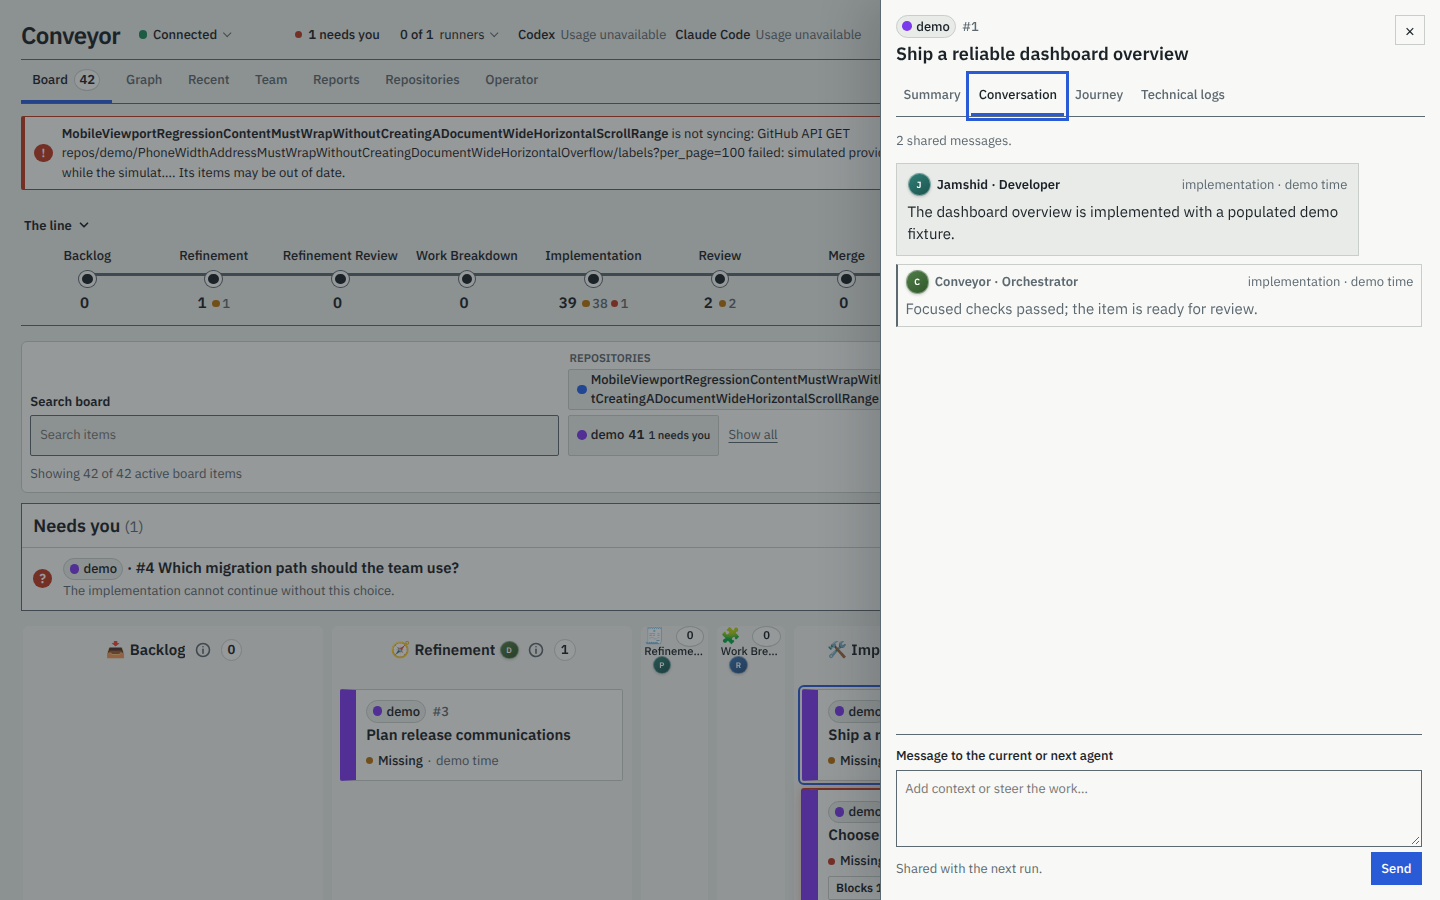
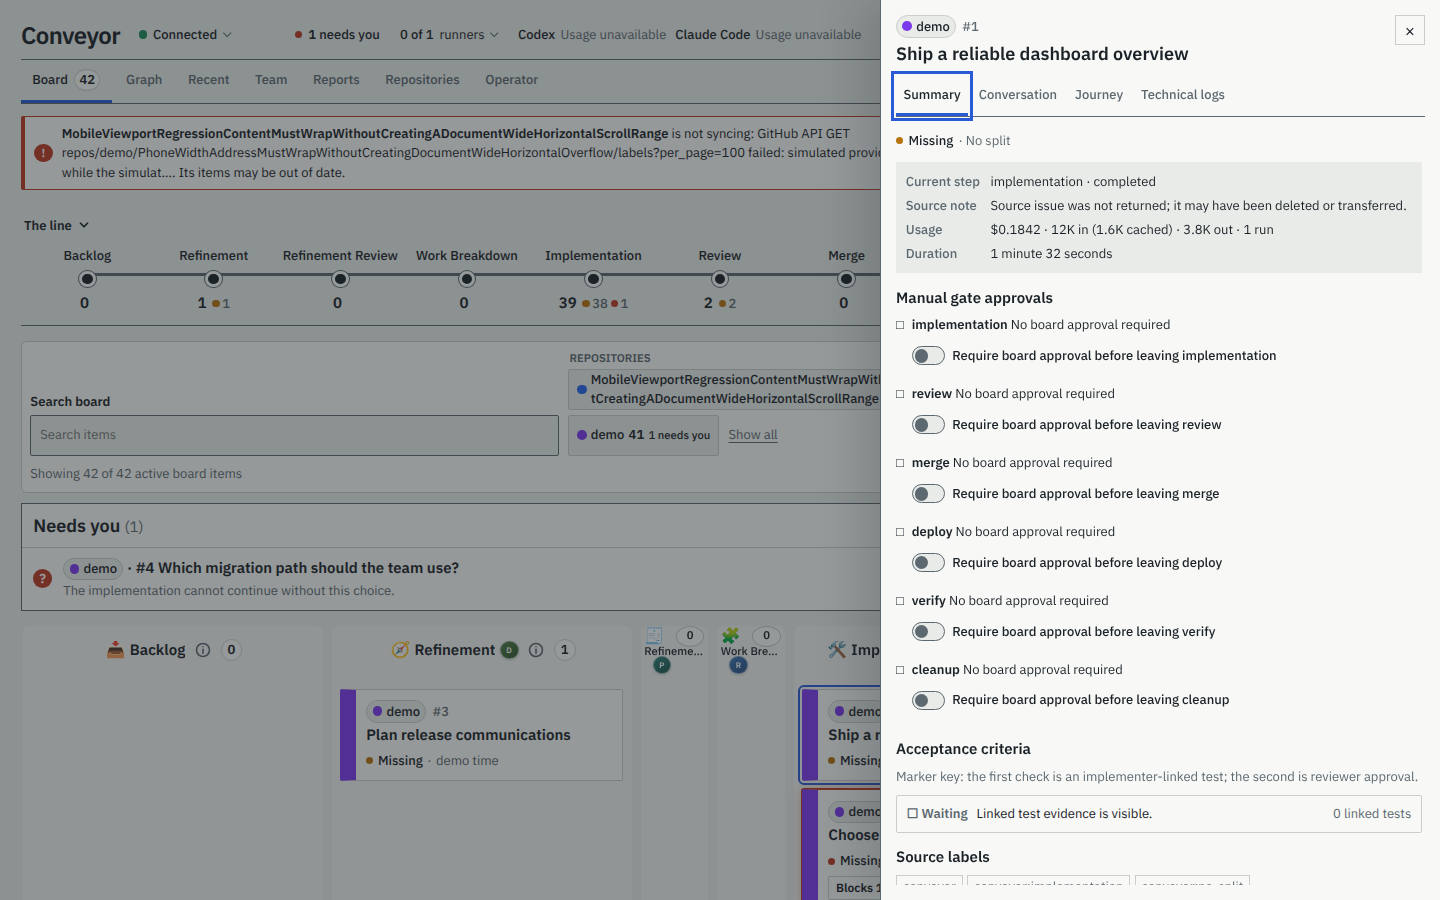
Show criterion evidence markers (#351)

diff --git a/src/web/styles.ts b/src/web/styles.ts
@@ -77,6 +77,8 @@ html{scrollbar-color:var(--steel) var(--concrete)}::selection{background:var(--s
 .repository-filter{max-width:100%}.repository-filter label{min-width:0;overflow-wrap:anywhere;white-space:normal}.board [data-filter-card][hidden]{display:none!important}@media(max-width:760px){.board-filter-choices .repository-filter{width:100%}.board-filter-choices .repository-filter label{flex:1 1 auto}}
 .recent-activity{min-width:0;max-width:76rem}.recent-header{display:flex;align-items:baseline;justify-content:space-between;gap:1rem;margin-bottom:1.25rem}.recent-header h2{margin:0}.recent-header p{margin:0;color:var(--steel)}.recent-filters{display:grid;grid-template-columns:minmax(0,1fr) minmax(0,1fr) auto;gap:1rem;align-items:end;margin-bottom:1.5rem;padding:1rem;border:1px solid var(--line);background:var(--panel)}.recent-filters fieldset{min-width:0;margin:0;padding:0;border:0}.recent-filters legend{margin-bottom:.45rem;font-size:var(--text-sm);font-weight:600}.recent-filter-options{display:flex;flex-wrap:wrap;gap:.4rem}.recent-filter-options label{display:inline-flex;align-items:center;gap:.3rem;min-height:2rem;padding:.2rem .5rem;border:1px solid var(--line);border-radius:999px;font-size:var(--text-sm);overflow-wrap:anywhere}.recent-filter-options input{inline-size:1rem;block-size:1rem;margin:0;accent-color:var(--signal)}.recent-filter-submit,.recent-load-more{min-height:2.25rem;padding:.45rem .8rem;border:1px solid var(--signal);border-radius:2px;background:var(--signal);color:var(--panel);font:inherit;font-weight:600;text-decoration:none}.recent-type{--recent-type:var(--steel);border-color:color-mix(in srgb,var(--recent-type) 55%,var(--line))!important;color:var(--recent-type)}.recent-type--done{--recent-type:var(--run)}.recent-type--stopped{--recent-type:var(--stop)}.recent-type--sent-back{--recent-type:var(--wait)}.recent-type--moved-forward{--recent-type:var(--signal)}.recent-list{display:grid;gap:.65rem;min-width:0;margin:0;padding:0;list-style:none}.recent-event{display:grid;grid-template-columns:7.5rem max-content minmax(13rem,1fr);gap:.45rem .8rem;align-items:center;min-width:0;padding:1rem;border:1px solid var(--line);background:var(--panel)}.recent-event time{color:var(--steel);font-size:var(--text-sm)}.recent-event>.recent-type{width:max-content;max-width:100%;padding:.18rem .45rem;border:1px solid;border-radius:999px;font-size:var(--text-sm);font-weight:600}.recent-item{display:flex;align-items:center;gap:.5rem;min-width:0}.recent-item>a{min-width:0;color:var(--ink);font-weight:600;overflow-wrap:anywhere}.recent-move,.recent-no-reason{grid-column:2/-1;margin:0;color:var(--steel);font-size:var(--text-sm)}.recent-move{display:flex;flex-wrap:wrap;gap:.35rem;align-items:center}.recent-reason{display:block;grid-column:2/-1;min-width:0;color:var(--steel);font-size:var(--text-sm)}.recent-reason summary{display:grid;grid-template-columns:auto minmax(0,1fr);gap:.5rem;cursor:pointer}.recent-reason summary span:last-child{overflow:hidden;text-overflow:ellipsis;white-space:nowrap}.recent-reason[open] summary span:last-child{display:none}.recent-reason p{margin:.45rem 0 0;overflow-wrap:anywhere}.recent-empty{margin:0;padding:1rem;border:1px dashed var(--line);color:var(--steel)}.recent-load-more{display:inline-flex;align-items:center;justify-content:center;margin-top:1rem}@media(max-width:760px){.recent-header{display:block}.recent-header p{margin-top:.35rem}.recent-filters{grid-template-columns:1fr;padding:.8rem}.recent-filter-options label,.recent-filter-submit,.recent-load-more{min-height:2.75rem}.recent-event{grid-template-columns:minmax(0,1fr);gap:.55rem;padding:.8rem}.recent-event>.recent-type{grid-row:1;justify-self:start}.recent-event time{grid-row:1;justify-self:end}.recent-item,.recent-move,.recent-no-reason,.recent-reason{grid-column:1}.recent-item{align-items:flex-start}.recent-item .repository-badge{flex:none}.recent-reason summary{min-height:2.75rem;align-items:center}}
 .criterion-list{gap:.45rem}.criterion-evidence{min-width:0;border:1px solid var(--line);border-radius:2px;background:var(--panel)}.criterion-summary{display:grid;grid-template-columns:auto minmax(0,1fr) auto;gap:.35rem .6rem;align-items:start;padding:.55rem .65rem;cursor:pointer}.criterion-summary::marker{color:var(--steel)}.criterion-state{font-size:var(--text-sm);font-weight:600;white-space:nowrap}.criterion-text{min-width:0;overflow-wrap:anywhere}.criterion-test-count{color:var(--steel);font-size:var(--text-sm);white-space:nowrap}.criterion-empty{margin:.1rem .65rem .65rem;color:var(--steel);font-size:var(--text-sm)}.criterion-tests{display:grid;gap:.45rem;margin:.1rem .65rem .65rem;padding:0;list-style:none}.criterion-test{display:grid;grid-template-columns:minmax(0,1fr);gap:.15rem;min-width:0;padding-top:.45rem;border-top:1px solid var(--line);font-size:var(--text-sm)}.criterion-test strong,.criterion-test-location,.criterion-test-description{min-width:0;overflow-wrap:anywhere}.criterion-test-location{color:var(--signal)}.criterion-test-description{color:var(--steel)}@media(max-width:760px){.criterion-summary{grid-template-columns:auto minmax(0,1fr);padding:.65rem}.criterion-test-count{grid-column:2;font-size:.8rem}.criterion-tests{margin-right:.65rem;margin-left:.65rem}.criterion-empty{margin-right:.65rem;margin-left:.65rem}}
+/* Acceptance criteria carry their own evidence marker, rather than the generic list box. */
+.criterion-list>li{padding-left:0}.criterion-list>li::before{content:none}.criterion-state--waiting,.criterion-state--manual{color:var(--steel)}.criterion-state--tests-linked{color:var(--wait-text)}.criterion-state--approved{color:var(--run-text)}.criterion-evidence-summary{display:grid;justify-items:end;gap:.08rem;min-width:0}.criterion-test-count,.criterion-no-tests{color:var(--steel);font-size:var(--text-sm);white-space:nowrap}.criterion-no-tests{color:var(--wait-text);font-weight:500}.criterion-guidance{margin:.1rem 0 .55rem;color:var(--steel);font-size:var(--text-sm)}@media(max-width:760px){.criterion-evidence-summary{grid-column:2;justify-items:start}.criterion-test-count,.criterion-no-tests{font-size:.8rem;white-space:normal}}
 `;
 
 export const stickyNavigationCss = `

diff --git a/tests/web/render.test.ts b/tests/web/render.test.ts
@@ -466,8 +466,8 @@ describe("renderDashboard", () => {
   test("renders visible approved and unapproved criterion states", () => {
     const html = renderDashboard({ ...dashboard, selectedIssue: parent });
 
-    expect(html).toContain("☐ Waiting");
-    expect(html).toContain("☑ Approved");
+    expect(html).toContain('aria-hidden="true">☐</span> Waiting');
+    expect(html).toContain('aria-hidden="true">☑☑</span> Approved');
     expect(html).toContain("Keyboard usable");
   });
 
@@ -1495,7 +1495,7 @@ describe("renderDashboard", () => {
   });
 });
 
-test("renders expandable criterion evidence as text with SHA-correct source links", () => {
+test("renders one accessible marker for each criterion evidence state", () => {
   const html = renderIssueDetails({
     ...parent,
     acceptanceCriteria: [
@@ -1507,12 +1507,23 @@ test("renders expandable criterion evidence as text with SHA-correct source link
         ],
       },
       { id: "AC-2", text: "No evidence", approved: false, manual: false, tests: [] },
-      { id: "AC-3", text: "Production validation", approved: false, manual: true, tests: [] },
+      {
+        id: "AC-3", text: "Production validation", approved: true, manual: true,
+        tests: [{ name: "manual prerequisite", file: "tests/manual.test.ts", line: null, description: null, sourceUrl: null }],
+      },
+      { id: "AC-4", text: "Approved without recorded evidence", approved: true, manual: false, tests: [] },
     ],
   });
 
   expect(html).toContain('<details class="criterion-evidence">');
-  expect(html).toContain("☑ Approved");
+  expect(html).toContain('class="criterion-state criterion-state--approved" aria-label="Approved"');
+  expect(html).toContain('aria-hidden="true">☑☑</span> Approved');
+  expect(html).toContain('class="criterion-state criterion-state--waiting" aria-label="Waiting"');
+  expect(html).toContain('aria-hidden="true">☐</span> Waiting');
+  expect(html).toContain('class="criterion-state criterion-state--manual" aria-label="Manual"');
+  expect(html).toContain('aria-hidden="true">◌</span> Manual');
+  expect(html).toContain("Marker key: the first check is an implementer-linked test; the second is reviewer approval.");
+  expect(html.match(/class="criterion-state /g)?.length).toBe(4);
   expect(html).toContain("2 linked tests");
   expect(html).toContain('href="https://example.com/owner/repo/blob/verified-head/tests/web/render.test.ts#L47"');
   expect(html).toContain('href="https://example.com/owner/repo/blob/recorded-head/tests/web/no-line.test.ts"');
@@ -1521,8 +1532,29 @@ test("renders expandable criterion evidence as text with SHA-correct source link
   expect(html).toContain("Escapes &lt;stored> text");
   expect(html).toContain("&lt;criterion>");
   expect(html).toContain("renders &lt;safely>");
-  expect(html).toContain("no tests linked");
+  expect(html).toContain("No test linked");
   expect(html).toContain("manual");
   expect(html).not.toContain("<criterion>");
   expect(html).not.toContain("<stored>");
+});
+
+test("shows tests linked when evidence exists without current-head approval", () => {
+  const html = renderIssueDetails({
+    ...parent,
+    acceptanceCriteria: [{
+      id: "AC-1", text: "Evidence is recorded", approved: false, manual: false,
+      tests: [{ name: "records evidence", file: "tests/web/render.test.ts", line: 1, description: null, sourceUrl: null }],
+    }],
+  });
+
+  expect(html).toContain('class="criterion-state criterion-state--tests-linked" aria-label="Tests linked"');
+  expect(html).toContain('aria-hidden="true">☑</span> Tests linked');
+  expect(html).not.toContain('aria-hidden="true">☑☑</span> Approved');
+});
+
+test("styles criterion states with theme variables and removes the generic list marker", () => {
+  expect(dashboardCss).toContain(".criterion-list>li::before{content:none}");
+  expect(dashboardCss).toContain(".criterion-state--waiting,.criterion-state--manual{color:var(--steel)}");
+  expect(dashboardCss).toContain(".criterion-state--tests-linked{color:var(--wait-text)}");
+  expect(dashboardCss).toContain(".criterion-state--approved{color:var(--run-text)}");
 });

diff --git a/src/web/render.tsx b/src/web/render.tsx
@@ -15,6 +15,7 @@ import type {
   GraphNodeViewModel,
   GraphRelationshipViewModel,
   IssueCardViewModel,
+  IssueCriterionViewModel,
   IssueRelationViewModel,
   RecentActivityType,
   RepositoryDashboardSummary,
@@ -31,6 +32,13 @@ function safeUrl(value: string | null): string | null {
   } catch {
     return null;
   }
+}
+
+function criterionState(criterion: IssueCriterionViewModel): { label: string; mark: string; className: string } {
+  if (criterion.manual) return { label: "Manual", mark: "◌", className: "criterion-state--manual" };
+  if (criterion.approved) return { label: "Approved", mark: "☑☑", className: "criterion-state--approved" };
+  if (criterion.tests.length > 0) return { label: "Tests linked", mark: "☑", className: "criterion-state--tests-linked" };
+  return { label: "Waiting", mark: "☐", className: "criterion-state--waiting" };
 }
 
 function issueHref(repository: string, number: number, tab?: "conversation" | "journey" | "logs"): string {
@@ -286,16 +294,23 @@ function DetailsDialog({ issue, id, selected = false, canManage = false }: { iss
         <TodoChecklist issue={issue} />
         <section class="criteria" aria-label="Acceptance criteria" data-criterion-evidence>
           <h3>Acceptance criteria</h3>
+          <p class="criterion-guidance">Marker key: the first check is an implementer-linked test; the second is reviewer approval.</p>
           {issue.acceptanceCriteria.length > 0
-            ? <ul class="criteria-list criterion-list">{issue.acceptanceCriteria.map((criterion) => (
+            ? <ul class="criteria-list criterion-list">{issue.acceptanceCriteria.map((criterion) => {
+              const state = criterionState(criterion);
+              const approvedWithoutTests = !criterion.manual && criterion.approved && criterion.tests.length === 0;
+              return (
               <li key={criterion.id}>
                 <details class="criterion-evidence">
                   <summary class="criterion-summary">
-                    <span class="criterion-state" aria-label={criterion.manual ? "Manual" : criterion.approved ? "Approved" : "Waiting"}>
-                      {criterion.manual ? "◌ Manual" : criterion.approved ? "☑ Approved" : "☐ Waiting"}
+                    <span class={`criterion-state ${state.className}`} aria-label={state.label}>
+                      <span aria-hidden="true">{state.mark}</span> {state.label}
                     </span>
                     <span class="criterion-text">{criterion.text}</span>
-                    <span class="criterion-test-count">{criterion.tests.length} linked test{criterion.tests.length === 1 ? "" : "s"}</span>
+                    <span class="criterion-evidence-summary">
+                      <span class="criterion-test-count">{criterion.tests.length} linked test{criterion.tests.length === 1 ? "" : "s"}</span>
+                      {approvedWithoutTests && <span class="criterion-no-tests">No test linked</span>}
+                    </span>
                   </summary>
                   {criterion.manual
                     ? <p class="criterion-empty">manual</p>
@@ -312,7 +327,8 @@ function DetailsDialog({ issue, id, selected = false, canManage = false }: { iss
                     })}</ul>}
                 </details>
               </li>
-            ))}</ul>
+              );
+            })}</ul>
             : <p class="details-empty">No acceptance criteria recorded.</p>}
         </section>
         {(issue.issueType || issue.issueFields.length > 0) && (

diff --git a/scripts/regenerate-screenshots.ts b/scripts/regenerate-screenshots.ts
@@ -22,6 +22,13 @@ const DEMO_PASSWORD = "demo-password-12chars";
 const DEMO_TIMEOUT = 30_000;
 const DEMO_TIME = "2026-09-15T12:00:00.000Z";
 const DEMO_FINISHED_TIME = "2026-09-15T12:01:32.000Z";
+const DEMO_CRITERIA_BODY = [
+  "Deterministic demo item used only to regenerate documentation screenshots.",
+  "",
+  "## Acceptance Criteria",
+  "",
+  "- [ ] Linked test evidence is visible. <!-- conveyor:criterion:AC-1 -->",
+].join("\n");
 const OUTPUT_DIRECTORY = path.join("docs", "screenshots");
 const PHONE_OVERFLOW_REPOSITORY = "MobileViewportRegressionContentMustWrapWithoutCreatingADocumentWideHorizontalScrollRange";
[1 lines of base64/hex data omitted]
@@ -37,7 +44,7 @@ const DEMO_SOURCE_ISSUES = [
     number: 1,
     html_url: "https://github.invalid/demo/dashboard-demo/issues/1",
     title: "Ship a reliable dashboard overview",
-    body: "Deterministic demo item used only to regenerate documentation screenshots.",
+    body: DEMO_CRITERIA_BODY,
     state: "open",
     state_reason: null,
     labels: ["conveyor", "conveyor:implementation", "conveyor:no-split"],
@@ -269,7 +276,7 @@ function issue(number: number, title: string, stage: string): IssueProjection {
     sourceNumber: number,
     sourceUrl: `https://github.invalid/demo/dashboard-demo/issues/${number}`,
     title,
-    body: "Deterministic demo item used only to regenerate documentation screenshots.",
+    body: number === 1 ? DEMO_CRITERIA_BODY : "Deterministic demo item used only to regenerate documentation screenshots.",
     sourceState: "open",
     sourceStateReason: null,
     labels: ["conveyor", `conveyor:${stage}`],
@@ -1056,9 +1063,10 @@ async function main(): Promise<void> {
       "16.2K",
       "Runs",
     ]);
-    await capture(page, baseUrl, "item", "/issues/demo/1/conversation", [
+    await capture(page, baseUrl, "item", "/issues/demo/1", [
       "Ship a reliable dashboard overview",
-      "The dashboard overview is implemented",
+      "Acceptance criteria",
+      "Waiting",
     ]);
     await verifyPhoneLayouts(page, baseUrl);
 

diff --git a/tests/web/refresh-position.test.ts b/tests/web/refresh-position.test.ts
@@ -735,8 +735,12 @@ describe("dashboard live refresh position", () => {
       await page.locator('article.issue[data-issue-id="target"] .card-open').click();
       await request;
       await page.waitForFunction(() => document.querySelector('dialog.issue-details[open]'));
-      expect(await page.locator("[data-criterion-evidence]").textContent()).toContain("no tests linked");
-      expect(await page.locator("[data-criterion-evidence]").textContent()).toContain("manual");
+      const evidence = page.locator("[data-criterion-evidence]");
+      expect(await evidence.textContent()).toContain("no tests linked");
+      expect(await evidence.textContent()).toContain("manual");
+      expect(await evidence.getByLabel("Waiting").count()).toBe(1);
+      expect(await evidence.getByLabel("Manual").count()).toBe(1);
+      expect(await evidence.locator(".criterion-list > li").evaluateAll((items) => items.every((item) => getComputedStyle(item, "::before").content === "none"))).toBe(true);
 
       const refreshed = issue("target", 20, "Target item");
       refreshed.acceptanceCriteria = [
@@ -754,8 +758,9 @@ describe("dashboard live refresh position", () => {
       currentDashboard = dashboard(revision, [refreshed]);
       await page.waitForFunction(() => document.querySelector("[data-criterion-evidence]")?.textContent?.includes("refreshes evidence"));
 
-      const evidence = page.locator("[data-criterion-evidence]");
-      expect(await evidence.textContent()).toContain("☑ Approved");
+      expect(await evidence.textContent()).toContain("☑☑ Approved");
+      expect(await evidence.getByLabel("Approved").count()).toBe(1);
+      expect(await evidence.getByLabel("Manual").count()).toBe(1);
       expect(await evidence.locator("a.criterion-test-location").getAttribute("href")).toContain("/blob/verified-head/tests/web/refresh-position.test.ts#L579");
       expect(await page.evaluate(() => document.documentElement.scrollWidth <= window.innerWidth)).toBe(true);
     } finally {

diff --git a/docs/dashboard.md b/docs/dashboard.md
@@ -12,7 +12,7 @@ The screenshots below are generated by `bun run docs:screenshots` from isolated 
 
 The board shows backlog, configured stages, completed work, active runner capacity, dependency/child relationships, warnings, questions, and per-stage usage (tokens in and out, plus the dollar amount when the harness reports one; subscription harnesses do not). Issue dialogs separate four concerns:
 
-- **Summary** — current state, relationships, criteria, labels, token usage (and cost when known), and duration. Criteria can be expanded to show their current approval state and linked test evidence, with source links pinned to the recorded revision.
+- **Summary** — current state, relationships, criteria, labels, token usage (and cost when known), and duration. Each criterion has one labelled marker: **Waiting** has no evidence, **Tests linked** has the implementer's linked test, **Approved** adds the reviewer's approval, and **Manual** remains manual. A note calls out an approved criterion with no linked test. Criteria can be expanded to show their linked test evidence, with source links pinned to the recorded revision.
 - **Conversation** — concise owner and agent handoff messages that survive future runs.
 - **Journey** — stage transitions, corrections, stops, and their reasons.
 - **Technical logs** — paginated raw run events for debugging.
@@ -59,7 +59,7 @@ Done is independent of stage movement: Conveyor uses the stored `done` push-even
 
 Select any combination of type chips and repositories; selections, including page cursors, are query parameters in the URL, so the resulting view can be reloaded, bookmarked, or opened on a phone. For example, `/recent?type=done&type=stopped&repo=sample` shows Done and Stopped events from `sample`.
 
-![An item's conversation](screenshots/item.png)
+![An item's summary, including its acceptance-criterion marker](screenshots/item.png)
 
 ![The Team view beginning directly below the shared navigation](screenshots/team.png)
 

diff --git a/changes/345-criterion-evidence-marker.md b/changes/345-criterion-evidence-marker.md
@@ -1,0 +1,5 @@
+---
+section: Changed
+---
+
+Acceptance criteria in item details now show one marker that combines linked-test evidence and current review approval, with a text label and guidance explaining the checks.
